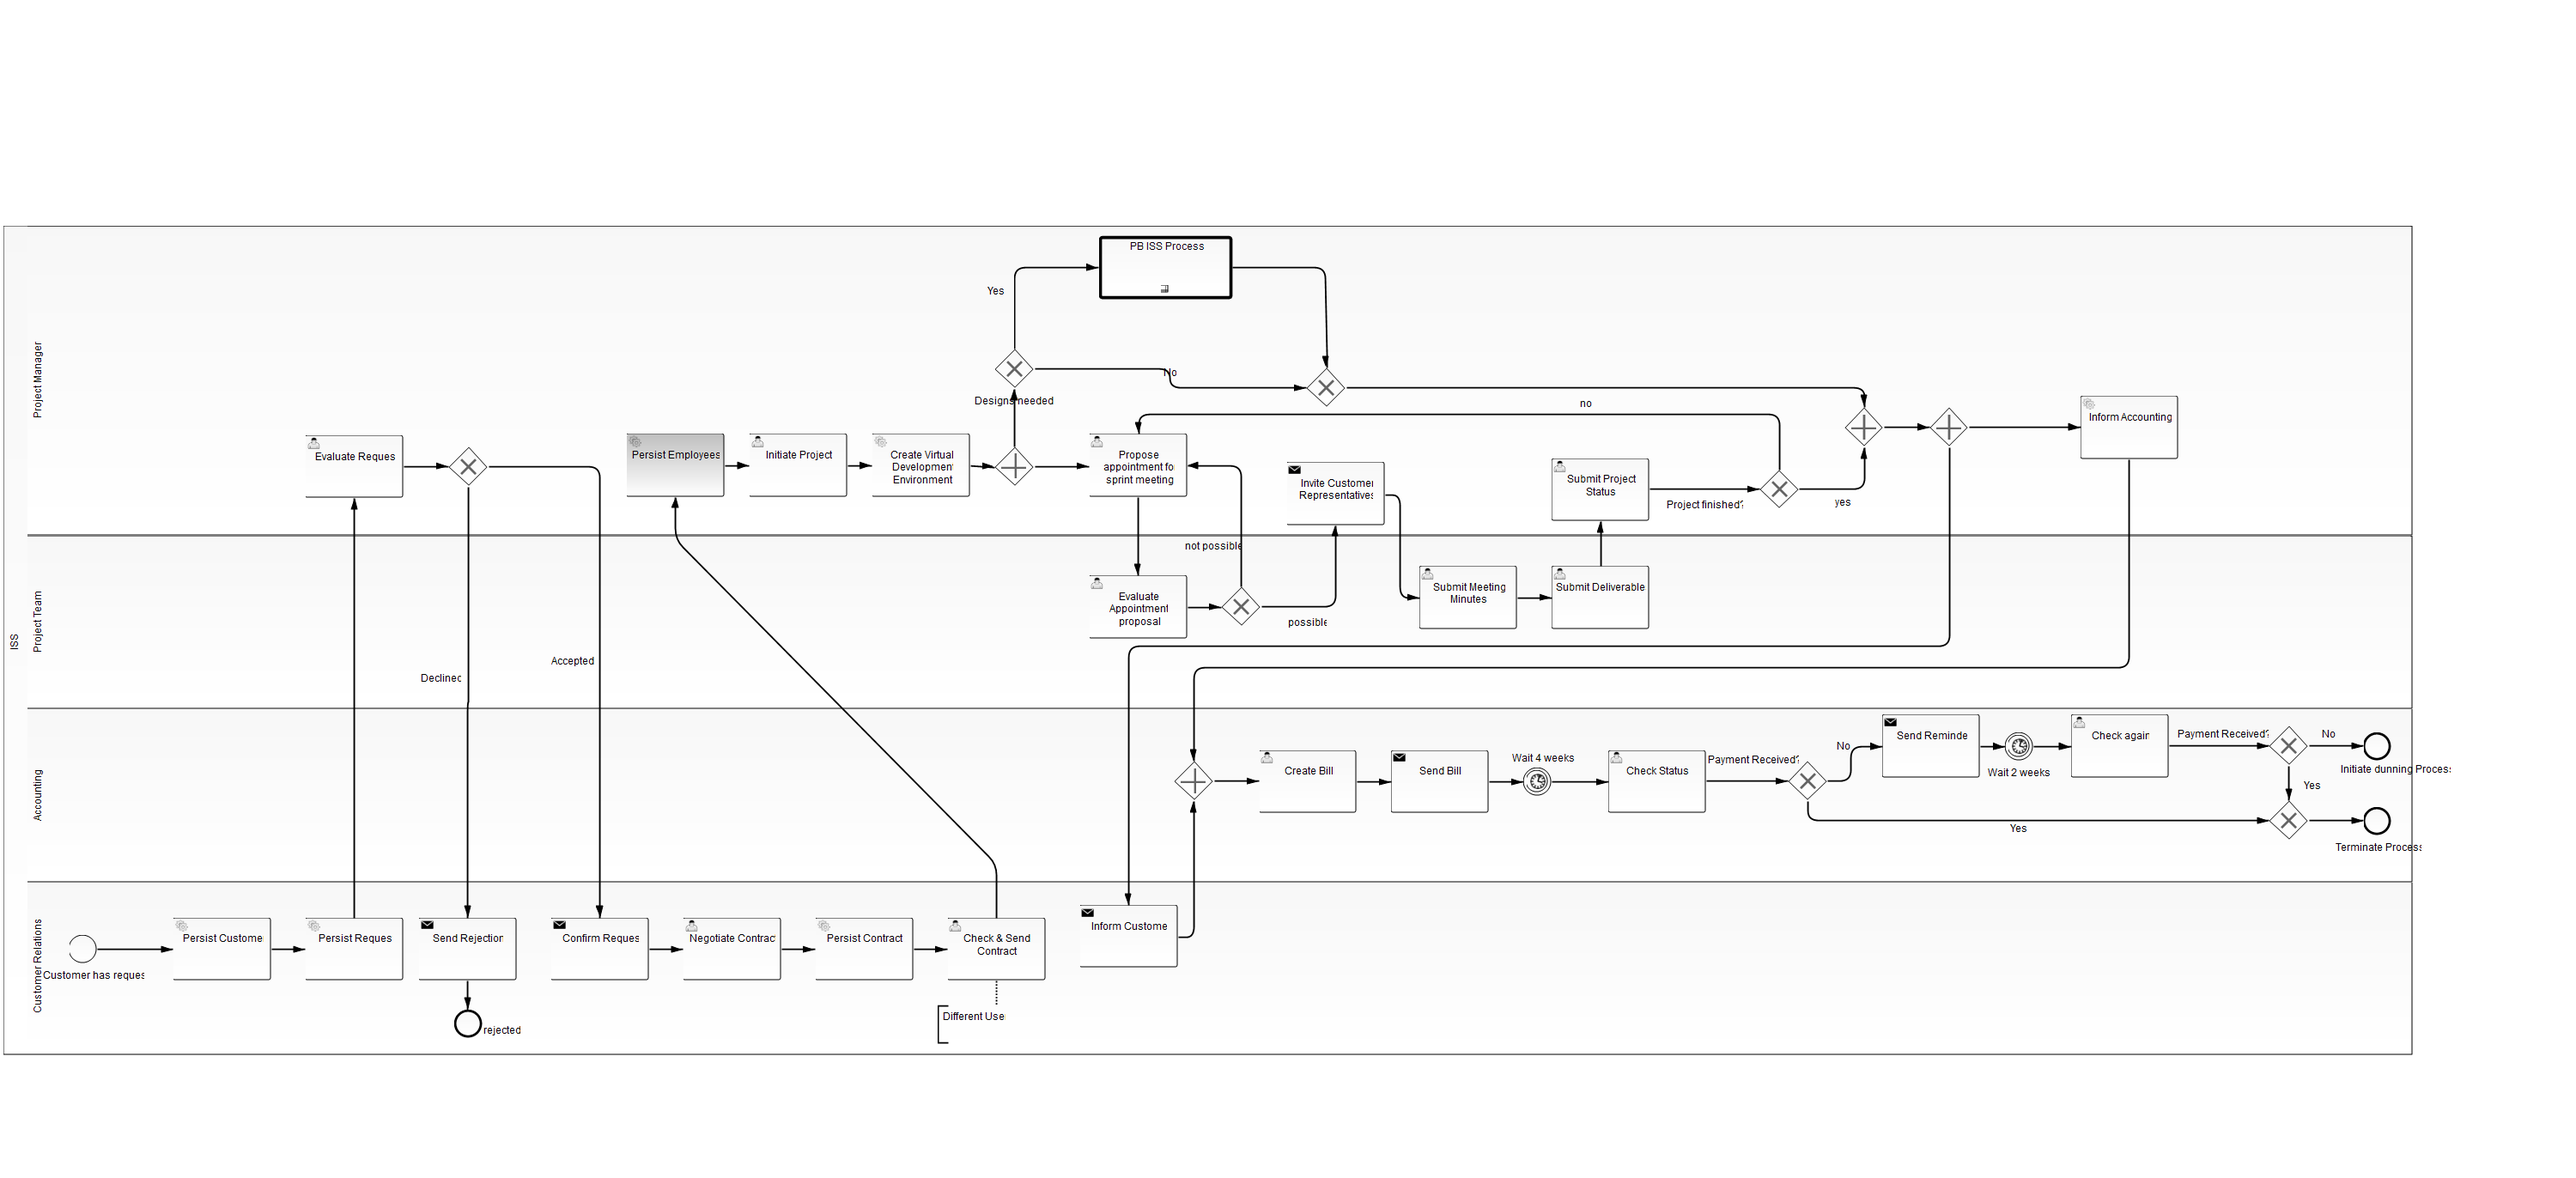
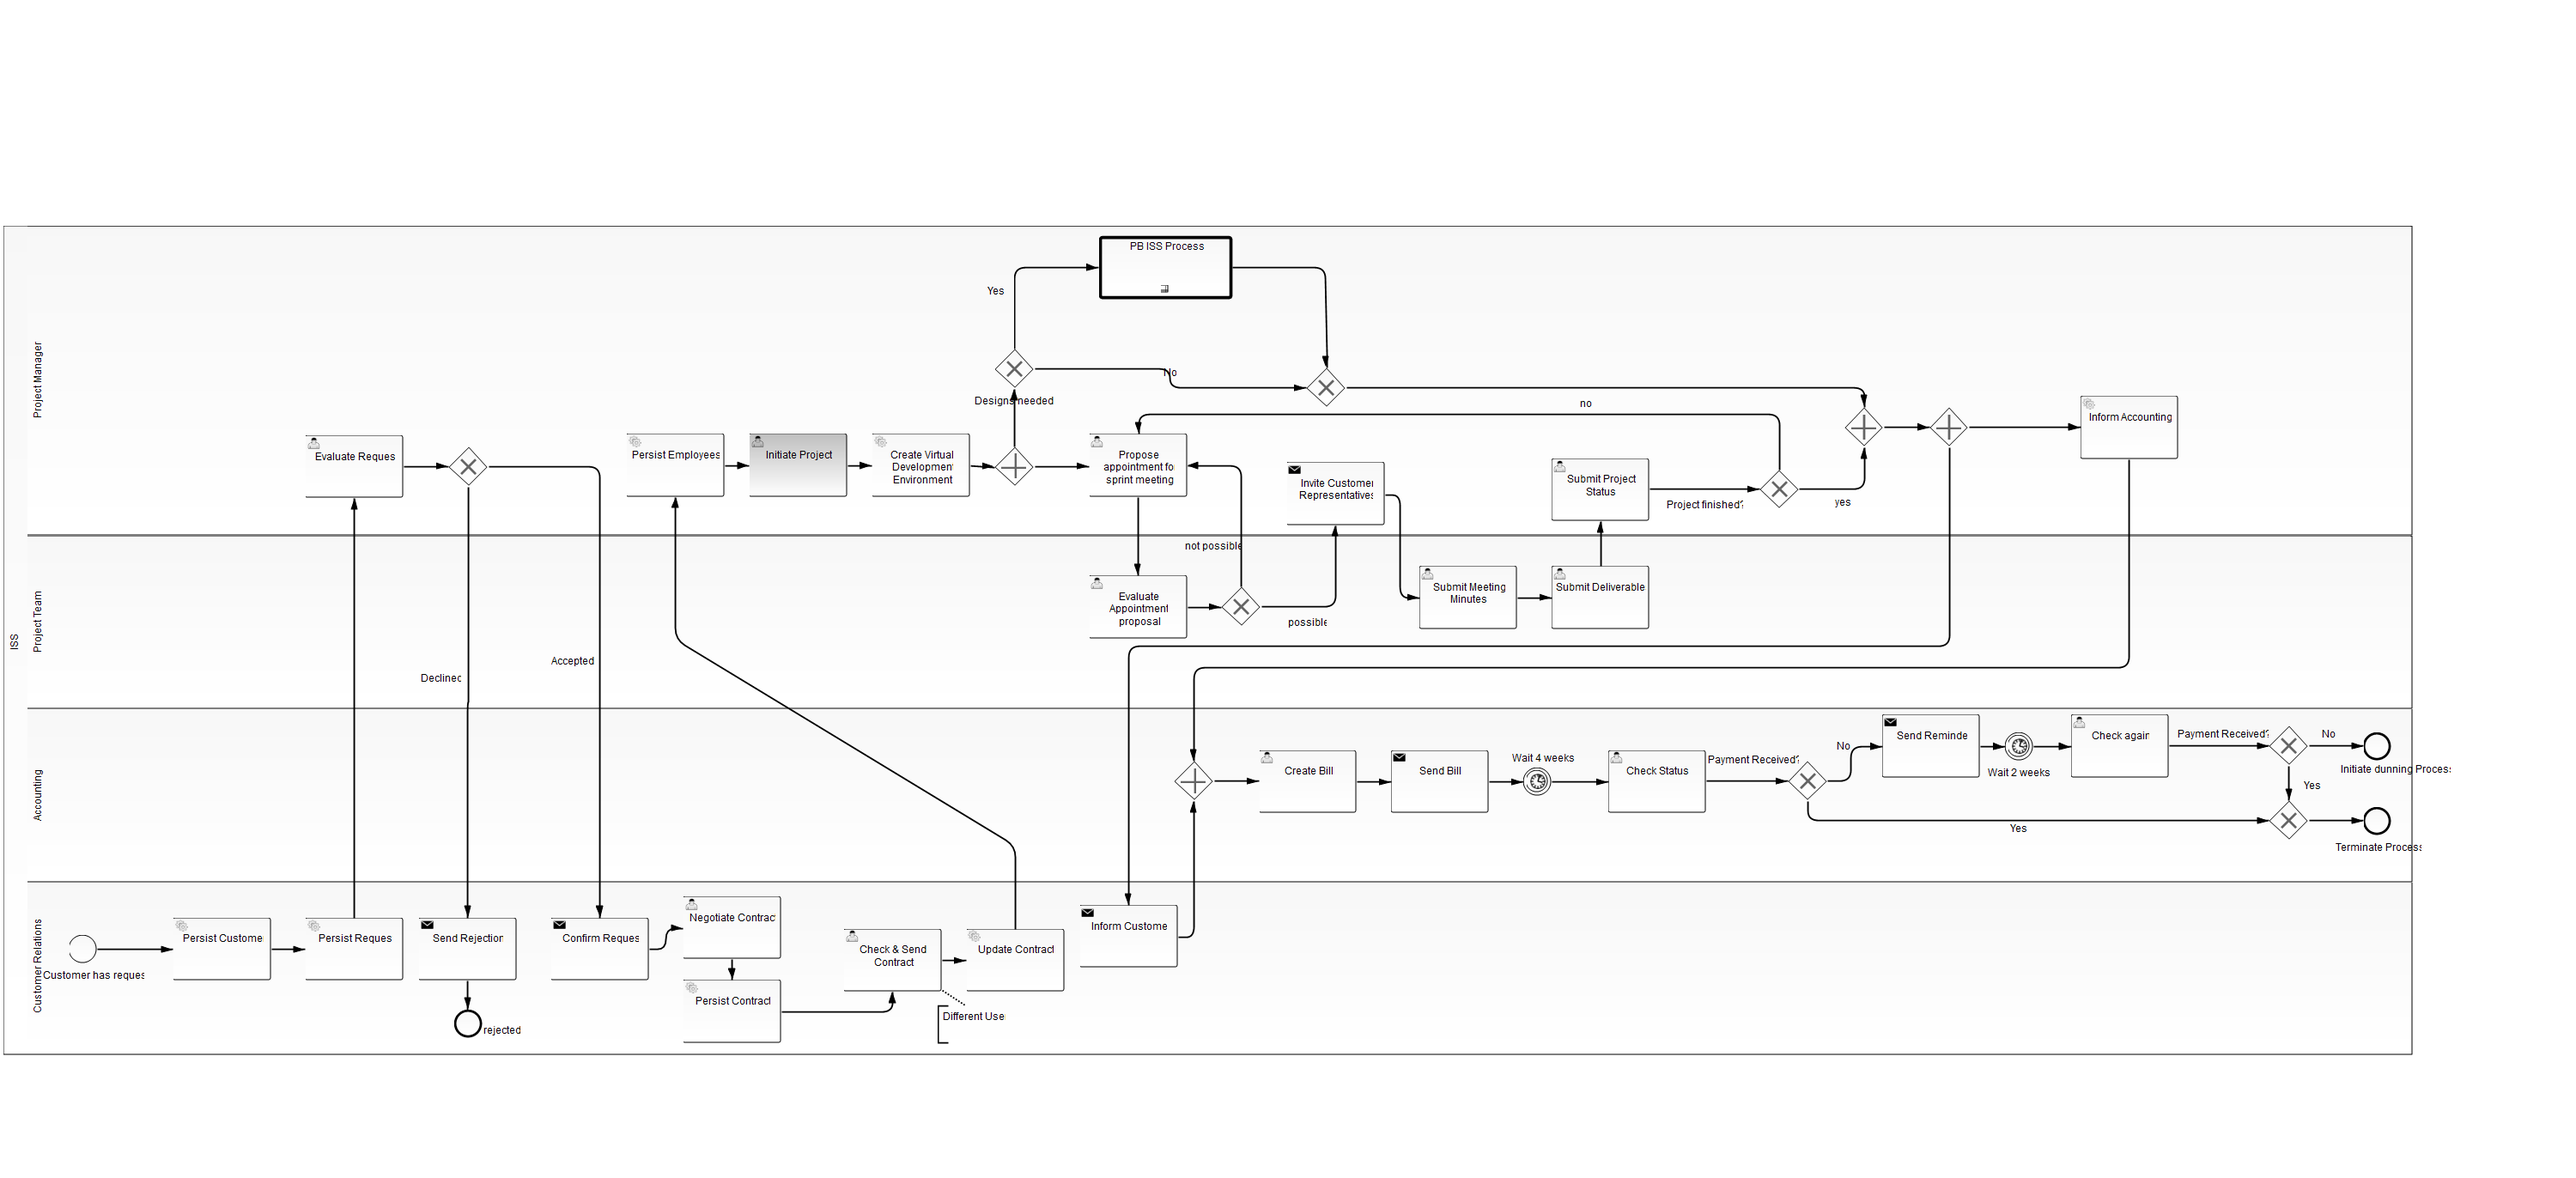
see Description
- adapted forms (text areas)
- 4 eye principle working but really really dirty implemented
- checkandSendContract is displaying editable fields
- added updateContract
- some design adaptions

Changed region(s): [[0.248, 0.7653, 0.403, 0.8571], [0.217, 0.3673, 0.341, 0.398]]

diff --git a/iss-project/src/main/webapp/resources/default.css b/iss-project/src/main/webapp/resources/default.css
@@ -83,6 +83,10 @@ body {
   padding-left: 5em;
 }
 
+.form-label {
+  font-weight: bold;
+}
+
 .data-table {
   border-collapse: collapse;
 }

diff --git a/iss-project/src/main/java/org/camunda/bpm/iss/web/CheckAndSendContractController.java b/iss-project/src/main/java/org/camunda/bpm/iss/web/CheckAndSendContractController.java
@@ -11,7 +11,6 @@ import javax.persistence.EntityManager;
 import javax.persistence.PersistenceContext;
 
 import org.camunda.bpm.engine.cdi.BusinessProcess;
-import org.camunda.bpm.engine.delegate.DelegateExecution;
 import org.camunda.bpm.iss.ejb.ContractService;
 import org.camunda.bpm.iss.ejb.CustomerService;
 import org.camunda.bpm.iss.entity.Contract;
@@ -19,12 +18,23 @@ import org.camunda.bpm.iss.entity.Customer;
 
 @Named
 @ConversationScoped
-public class CheckSendContractController implements Serializable{
+public class CheckAndSendContractController implements Serializable{
 
 	  private static  final long serialVersionUID = 1L;
 	  
+	  private long id;
 	  
-	  private static Logger LOGGER = Logger.getLogger(CheckSendContractController.class.getName());
+	  public long getId() {
+		return id;
+	  }
+
+	  public void setId(long id) {
+		this.id = id;
+	  }
+
+	
+	  
+	  private static Logger LOGGER = Logger.getLogger(CheckAndSendContractController.class.getName());
 	  // Inject the BusinessProcess to access the process variables
 	  @Inject
 	  private BusinessProcess businessProcess;
@@ -43,10 +53,8 @@ public class CheckSendContractController implements Serializable{
 	 
 	  // Caches the Entities during the conversation
 	  private Customer customerEntity;
-	  private Contract contractEntity;
-	  
-	  private DelegateExecution delegateExecution;
-	  
+	  private Contract contractEntity;	  
+	   
 	  
 	  public Customer getCustomerEntity() {
 		    if (customerEntity == null) {
@@ -67,6 +75,7 @@ public class CheckSendContractController implements Serializable{
 			    contractEntity = contractService.getContract((Long) businessProcess.getVariable("contractId"));
 			    }
 			    return contractEntity;  
-	  }
+	  }	  
+	
 }	 
 	

diff --git a/iss-project/src/main/java/org/camunda/bpm/iss/ejb/ContractService.java b/iss-project/src/main/java/org/camunda/bpm/iss/ejb/ContractService.java
@@ -1,5 +1,6 @@
 package org.camunda.bpm.iss.ejb;
 
+import java.io.IOException;
 import java.util.Map;
 import java.util.logging.Level;
 import java.util.logging.Logger;
@@ -10,9 +11,11 @@ import javax.inject.Named;
 import javax.persistence.EntityManager;
 import javax.persistence.PersistenceContext;
 
+import org.camunda.bpm.engine.cdi.BusinessProcess;
 import org.camunda.bpm.engine.cdi.jsf.TaskForm;
 import org.camunda.bpm.engine.delegate.DelegateExecution;
 import org.camunda.bpm.iss.entity.Contract;
+import org.camunda.bpm.iss.entity.CustomerRequest;
 
 @Stateless
 @Named
@@ -26,6 +29,13 @@ public class ContractService {
 	  private TaskForm taskForm;	  
 	  	  
 	  private static Logger LOGGER = Logger.getLogger(ContractService.class.getName());
+	  
+	  // Inject the BusinessProcess to access the process variables
+	  @Inject
+	  private BusinessProcess businessProcess;
+	  
+	  // Caches the Entities during the conversation
+	  private Contract contractEntity;
 	 
 	  public void persistContract(DelegateExecution delegateExecution) {
 	   
@@ -63,5 +73,15 @@ public class ContractService {
 		  // Load entity from database
 		  return entityManager.find(Contract.class, contractId);
 	  }
+	  
+	  public void updateContract(Long contractId) throws IOException {
+		  Contract contract = getContract(contractId);		 
+		  String contractTitle = businessProcess.getVariable("contractTitle");
+		  String contractDescription = businessProcess.getVariable("contractDescription");
+		  contract.setContractTitle(contractTitle);
+		  contract.setContractDescription(contractDescription);
+		  entityManager.merge(contract);
+	  } 
+	  
 	  	
 }

diff --git a/iss-project/src/main/java/org/camunda/bpm/iss/util/UserHandler.java b/iss-project/src/main/java/org/camunda/bpm/iss/util/UserHandler.java
@@ -32,7 +32,7 @@ public class UserHandler {
 	 * @return 
 	 * @throws EmptyCandidateUserException 
 	 */
-	public List<String> findDifferentUser(String negId, String groupId) throws EmptyCandidateUserException {
+	public String findDifferentUser(String negId, String groupId) throws EmptyCandidateUserException {
 		List<User> users = is.createUserQuery().memberOfGroup(groupId).list();		
 		User userObj = is.createUserQuery().userId(negId).list().get(0);
 		if (users.contains(userObj)){
@@ -40,10 +40,10 @@ public class UserHandler {
 		}
 		List<String> userRes = new LinkedList<String>();
 		for(User u:users){
-			userRes.add(u.getFirstName());
+			userRes.add(u.getId());
 		}
 		LOGGER.log(Level.INFO, "Different Users are: "+ userRes.toString());  
 		if (userRes.isEmpty()) throw new EmptyCandidateUserException("Candidate User List is empty");
-		else return userRes;
+		else return userRes.get(0);
 	}
 }
